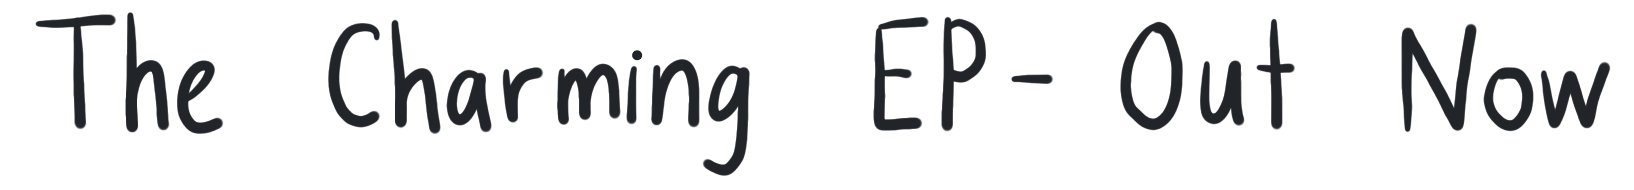
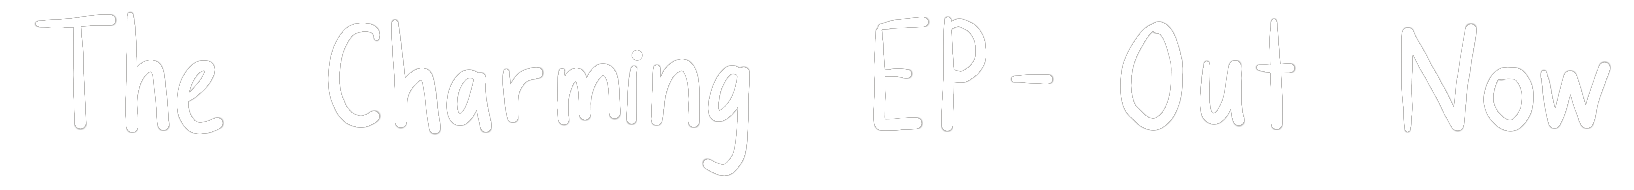
Update EP out now graphics and link

diff --git a/index.html b/index.html
@@ -106,9 +106,9 @@
     <div class="container px-4 px-lg-5 h-100" id="tct-masthead-container">
         <div class="row gx-4 gx-lg-5 h-75 align-items-center justify-content-center align-content-end text-center">
             <div class="col-lg-8 align-self-end d-block d-md-block">
-                <img src="assets/charming-ep-out-now.png" id="out-now-title" class="">
-                <a href="/p/the-charming-ep.html?utm_source=Home" target="_blank" class="btn submit-btn" style="opacity: 1; font-size: 1.5rem">Listen Now</a>
-            </div>  
+                <img src="assets/charming-ep-out-now2.png" id="out-now-title" class="">
+                <a href="/p/elves.html?utm_source=Home" target="_blank" class="btn submit-btn" style="opacity: 1; font-size: 1.5rem">Listen Now</a>
+            </div>
             <div class="col-lg-8 align-self-baseline"></div>
         </div>
     </div>
